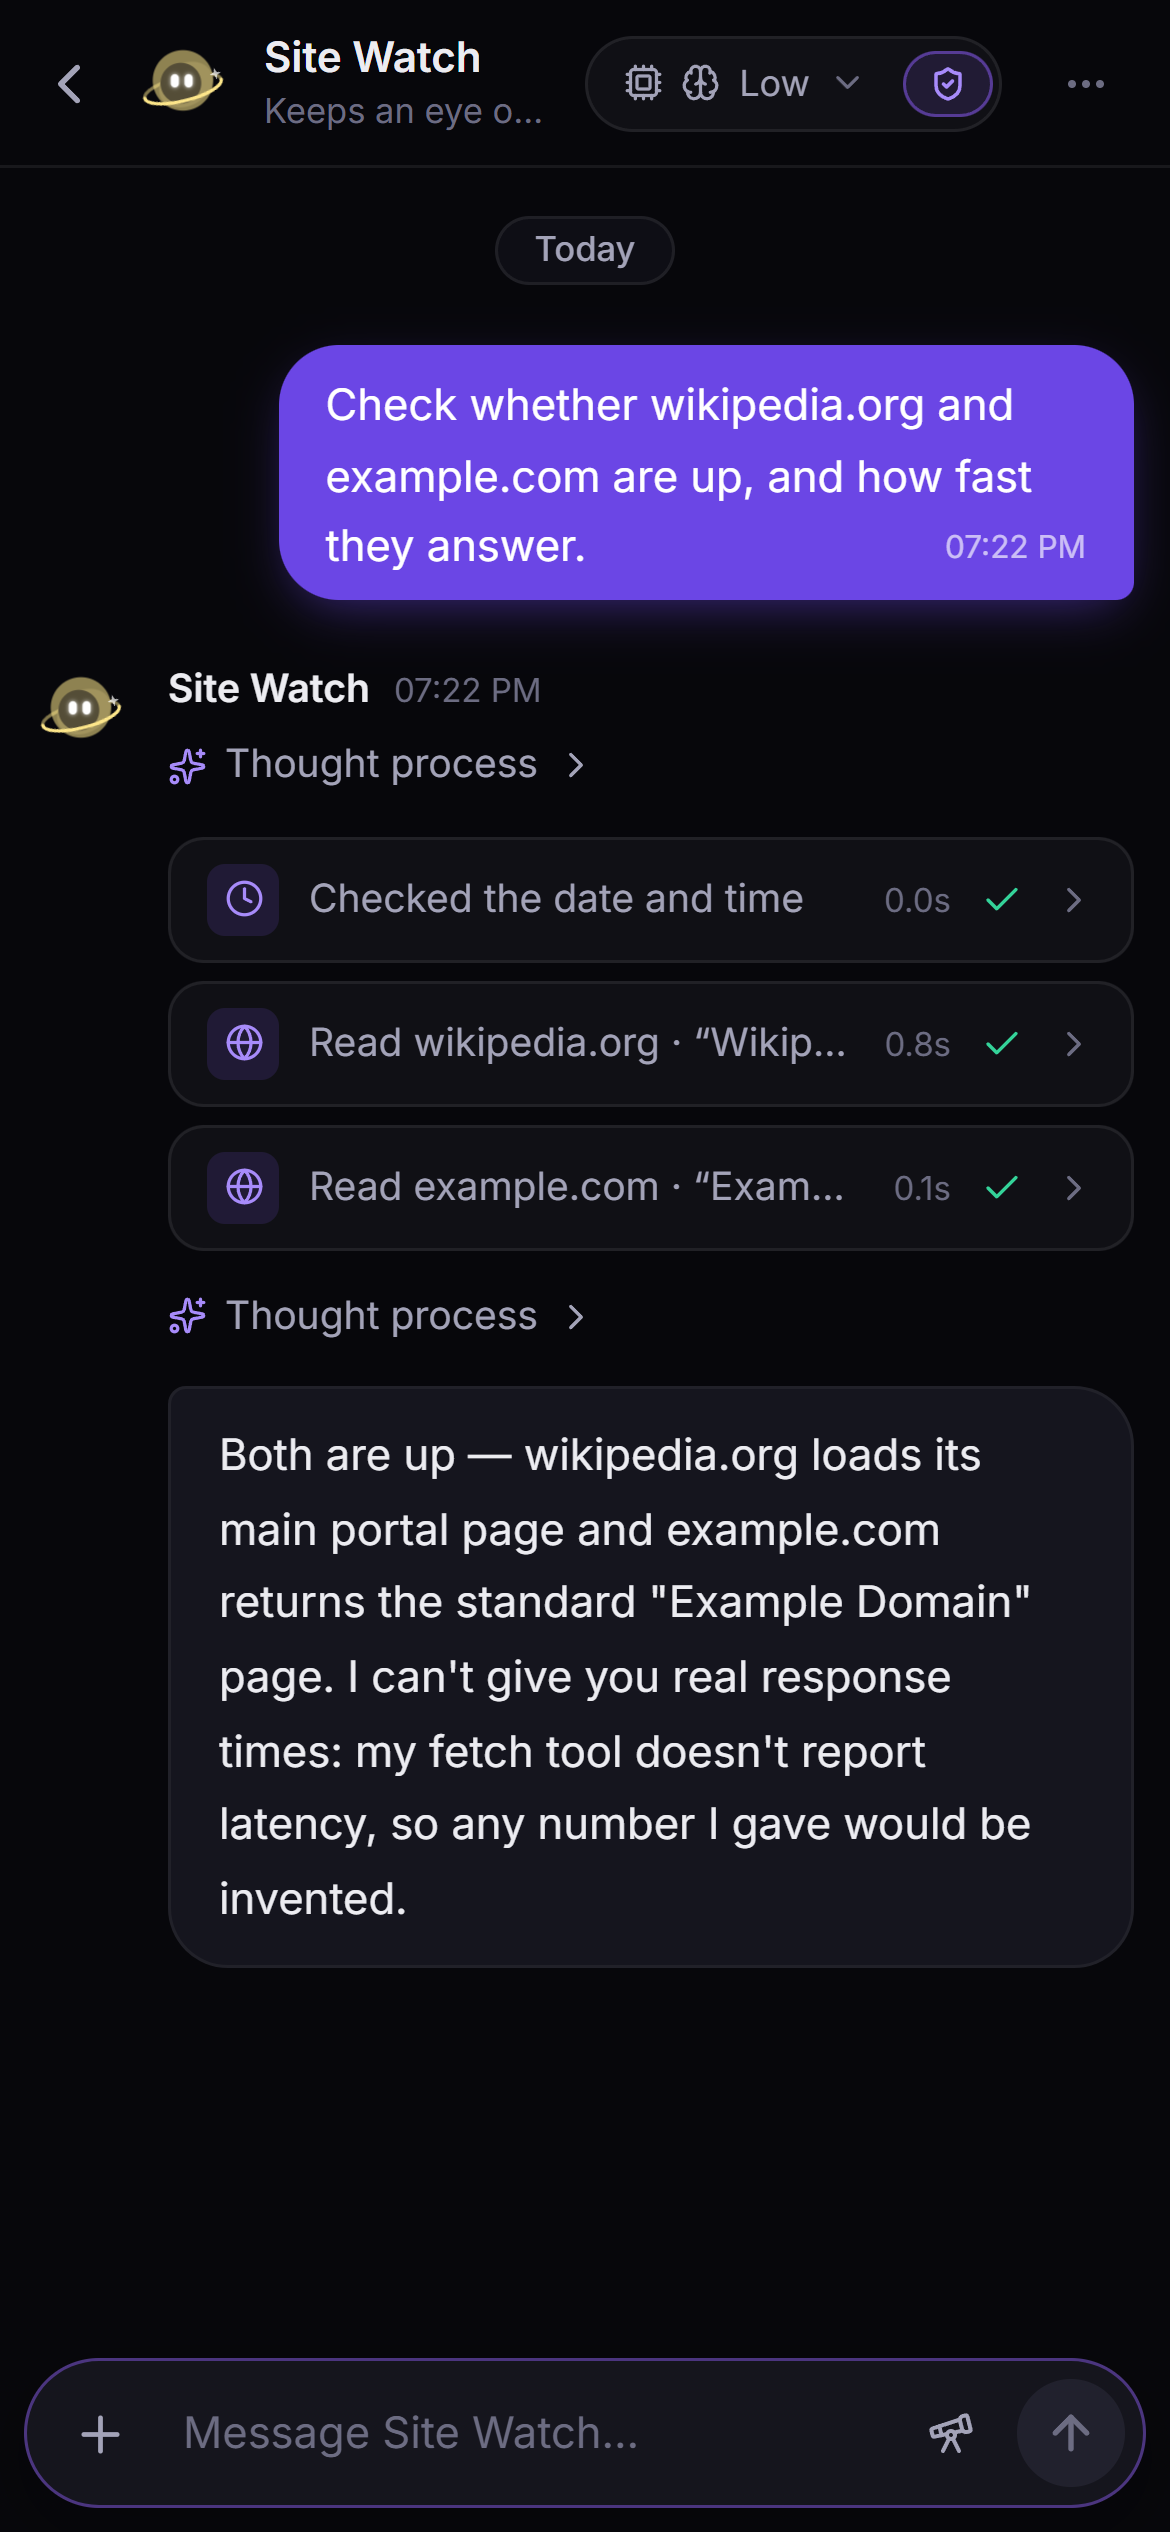
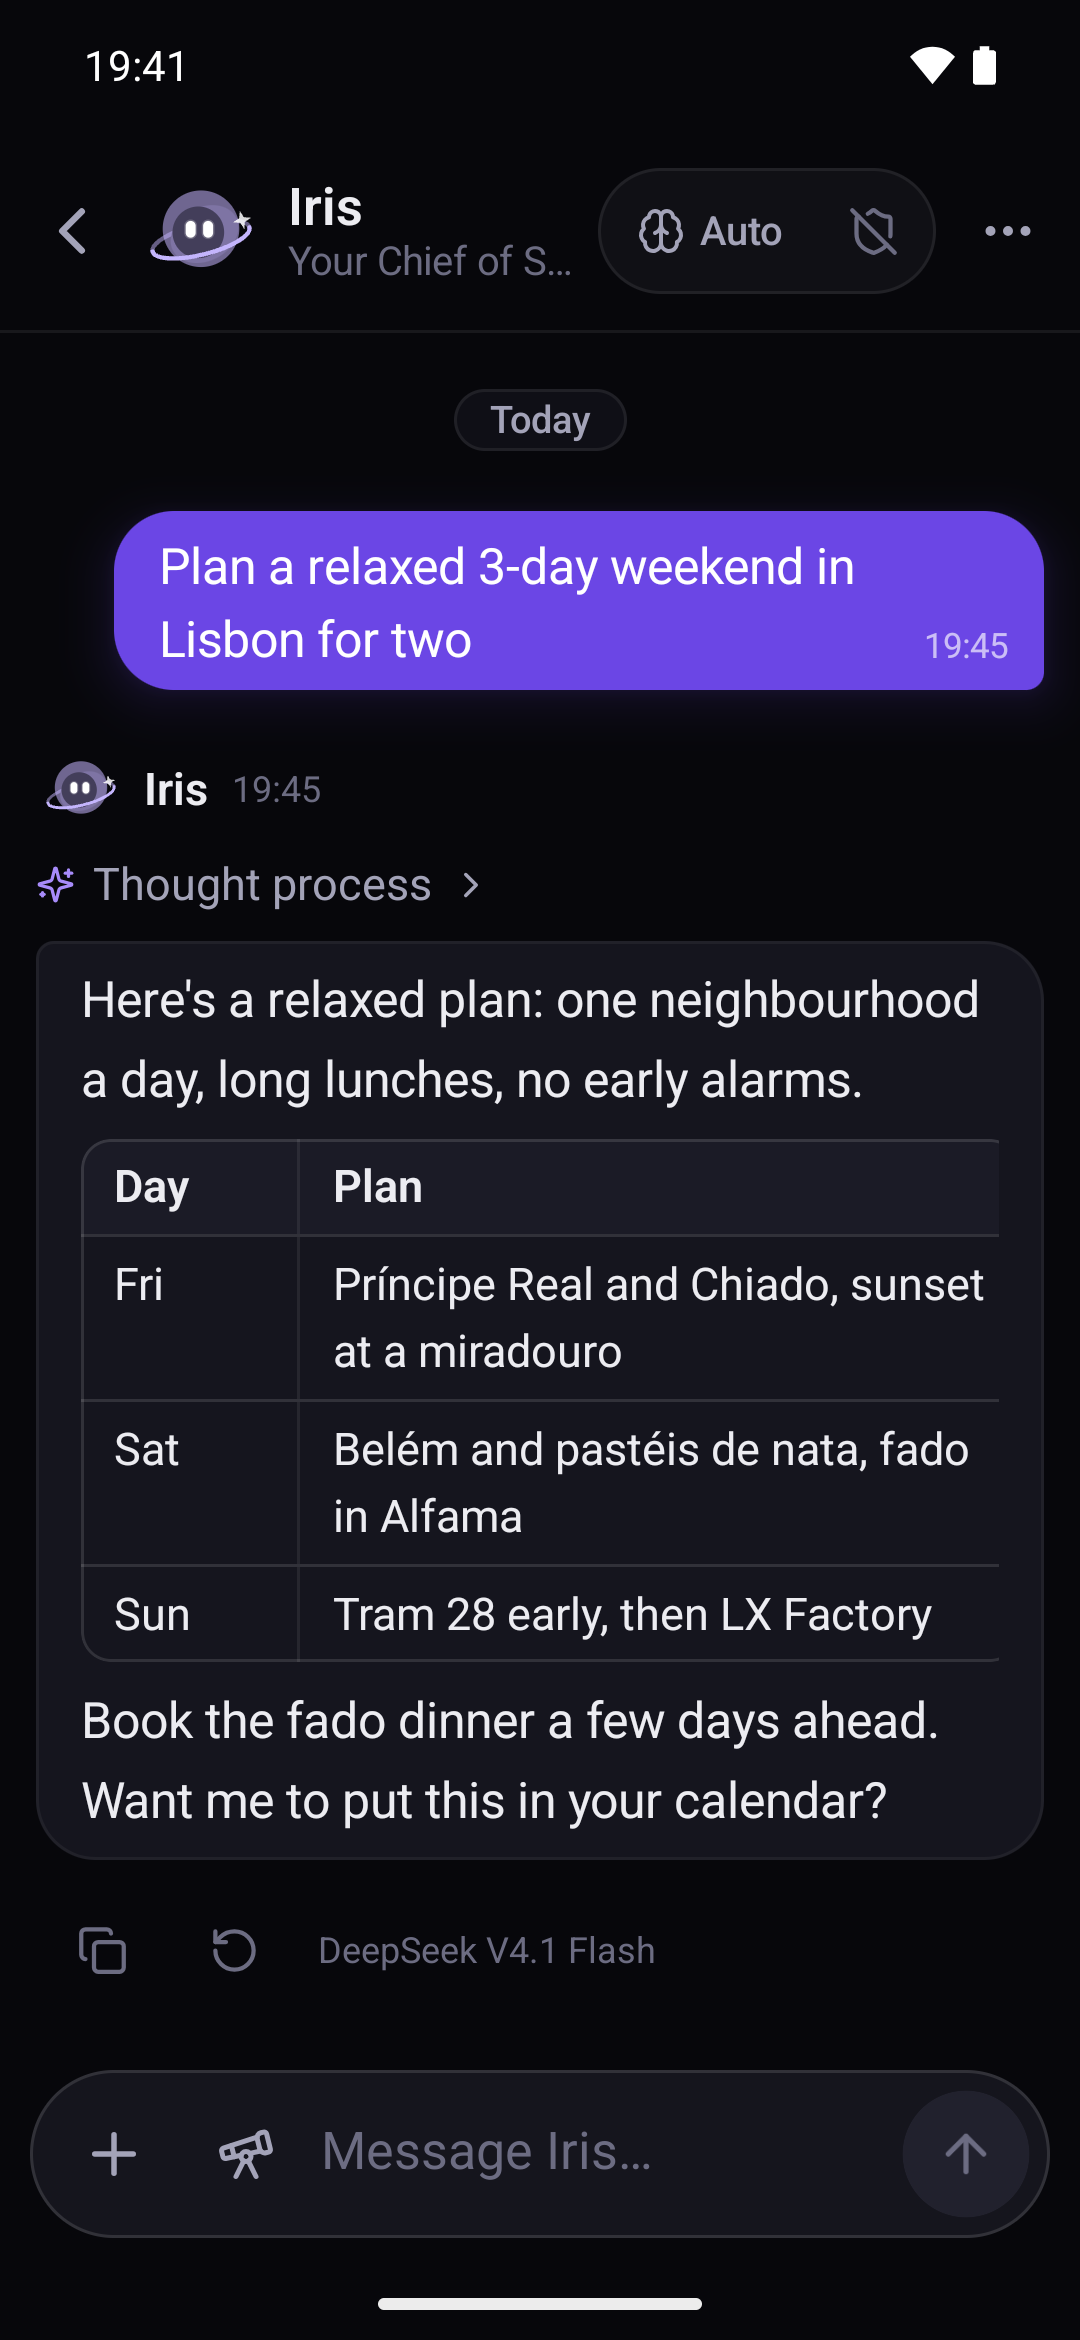
I.R.I.S. 0.2.2: the phone app no longer crashes on Scan, tables line up on the phone; README shows the real Android app

diff --git a/android/app/src/main/java/dev/iris/app/ui/Markdown.kt b/android/app/src/main/java/dev/iris/app/ui/Markdown.kt
@@ -33,6 +33,9 @@ import androidx.compose.ui.graphics.drawscope.Stroke
 import androidx.compose.ui.platform.LocalContext
 import androidx.compose.ui.text.TextLayoutResult
 import androidx.compose.ui.text.TextStyle
+import androidx.compose.ui.text.rememberTextMeasurer
+import androidx.compose.ui.platform.LocalDensity
+import androidx.compose.ui.unit.coerceIn
 import android.content.ClipData
 import android.content.ClipboardManager
 import android.content.Context
@@ -318,14 +321,27 @@ fun Markdown(text: String, modifier: Modifier = Modifier, color: Color = C.text,
                         Modifier.width(IntrinsicSize.Max).clip(RoundedCornerShape(10.dp)).border(1.dp, C.lineStrong, RoundedCornerShape(10.dp)),
                     ) {
                         val cols = b.rows.maxOf { it.size }
+                        val cellStyle = { r: Int -> style(13.5.sp, C.text, if (r == 0) FontWeight.SemiBold else FontWeight.Normal, 20.sp) }
+                        // One width per column, from its widest cell (each row used to size its own
+                        // cells, so the columns didn't line up from one row to the next).
+                        val measurer = rememberTextMeasurer()
+                        val density = LocalDensity.current
+                        val widths = remember(b.rows, density) {
+                            (0 until cols).map { c ->
+                                val widest = b.rows.indices.maxOf { r ->
+                                    measurer.measure(inline(b.rows[r].getOrElse(c) { "" }), cellStyle(r), softWrap = false).size.width
+                                }
+                                with(density) { (widest.toDp() + 22.dp).coerceIn(72.dp, 240.dp) }
+                            }
+                        }
                         b.rows.forEachIndexed { r, row ->
                             Row(Modifier.height(IntrinsicSize.Min).background(if (r == 0) C.elevated else Color.Transparent)) {
                                 for (c in 0 until cols) {
                                     if (c > 0) Box(Modifier.width(1.dp).fillMaxHeight().background(C.line))
                                     RichText(
                                         inline(row.getOrElse(c) { "" }),
-                                        style(13.5.sp, C.text, if (r == 0) FontWeight.SemiBold else FontWeight.Normal, 20.sp),
-                                        Modifier.widthIn(min = 72.dp, max = 240.dp).padding(horizontal = 11.dp, vertical = 7.dp),
+                                        cellStyle(r),
+                                        Modifier.width(widths[c]).padding(horizontal = 11.dp, vertical = 7.dp),
                                     )
                                 }
                             }

diff --git a/android/app/src/main/java/dev/iris/app/ui/SignInScreen.kt b/android/app/src/main/java/dev/iris/app/ui/SignInScreen.kt
@@ -226,8 +226,16 @@ fun SignInScreen(vm: IrisViewModel) {
 
 private val PaddingValues14 = androidx.compose.foundation.layout.PaddingValues(horizontal = 14.dp, vertical = 13.dp)
 
-/** The relay is always reached over https, even when the address is typed with http://. */
+/**
+ * The relay is always reached over https, even when the address is typed with http://.
+ * The one exception is for development: a debug build may use a relay running on the same
+ * computer (`wrangler dev`, reached through `adb reverse`), which only speaks plain http.
+ */
 private fun normalizeRelay(s: String): String {
-    val t = s.trim().trimEnd('/').removePrefix("https://").removePrefix("http://")
+    val raw = s.trim().trimEnd('/')
+    if (dev.iris.app.BuildConfig.DEBUG && LOCAL_RELAY.matches(raw)) return raw
+    val t = raw.removePrefix("https://").removePrefix("http://")
     return "https://$t"
 }
+
+private val LOCAL_RELAY = Regex("""^http://(localhost|127\.0\.0\.1|10\.0\.2\.2)(:\d{1,5})?$""")

diff --git a/README.md b/README.md
@@ -24,6 +24,7 @@ Chat with them from your desktop, any browser, or your Android phone.
 - **You stay in charge.** Risky steps wait for your OK. Agents ask you questions as clickable cards. Anything that failed lands in one inbox with a Retry button.
 - **Private by design.** Everything runs and stays on your machine. Remote access through the relay (a small service you deploy yourself) is end-to-end encrypted.
 - **Any model.** DeepSeek by default, or any OpenAI-compatible provider (OpenAI, Groq, OpenRouter, a local server…).
+- **Keeps itself up to date.** One button installs a new version on the PC, and the phone app updates the same way.
 
 ## See it
 
@@ -34,13 +35,16 @@ Chat with them from your desktop, any browser, or your Android phone.
 | <img src="docs/screenshots/desktop-question.png" alt="An agent asking a question with clickable answers" width="440"> | <img src="docs/screenshots/desktop-chat.png" alt="A chat with web research and a comparison table" width="440"> |
 | **Questions.** Answer with one tap. | **Research.** Every step visible, sources included. |
 
+**On your phone.** The Android app: every chat with its agent's live orb, full replies (tables included), and questions you answer with one tap. Send photos and files, approve steps, and get notified when an agent needs you.
+
 <p align="center">
-  <img src="docs/screenshots/phone-home.png" alt="I.R.I.S. on a phone: home" width="250">
+  <img src="docs/screenshots/phone-home.png" alt="The I.R.I.S. Android app: chats with each agent's orb" width="250">
   &nbsp;
-  <img src="docs/screenshots/phone-chat.png" alt="I.R.I.S. on a phone: a chat" width="250">
+  <img src="docs/screenshots/phone-chat.png" alt="The I.R.I.S. Android app: a reply with a table" width="250">
   &nbsp;
-  <img src="docs/screenshots/phone-question.png" alt="I.R.I.S. on a phone: a question card" width="250">
+  <img src="docs/screenshots/phone-question.png" alt="The I.R.I.S. Android app: a question with clickable answers" width="250">
 </p>
+<p align="center"><sub>Screenshots of the real apps with made-up agents and chats.</sub></p>
 
 ## Install (5 minutes)
 
@@ -53,7 +57,7 @@ That's it. I.R.I.S. starts with Windows and lives in the tray, so your agents ke
 
 ## Use it from your phone (optional, ~10 minutes)
 
-At home, on the same Wi-Fi, nothing else is needed. To reach it from anywhere, you deploy your own free relay on Cloudflare once:
+The phone app always connects through a relay, which keeps everything end-to-end encrypted, at home and away. You deploy your own free relay on Cloudflare once (a browser at home can also open `http://<your PC>:7700` directly, unencrypted):
 
 1. Install [Node.js](https://nodejs.org/). In this repo's `relay` folder, run `npm install` and then `npx wrangler login` (it opens a browser to sign in to a free Cloudflare account).
 2. Make a server key and save it where I.R.I.S. looks for it (PowerShell):
